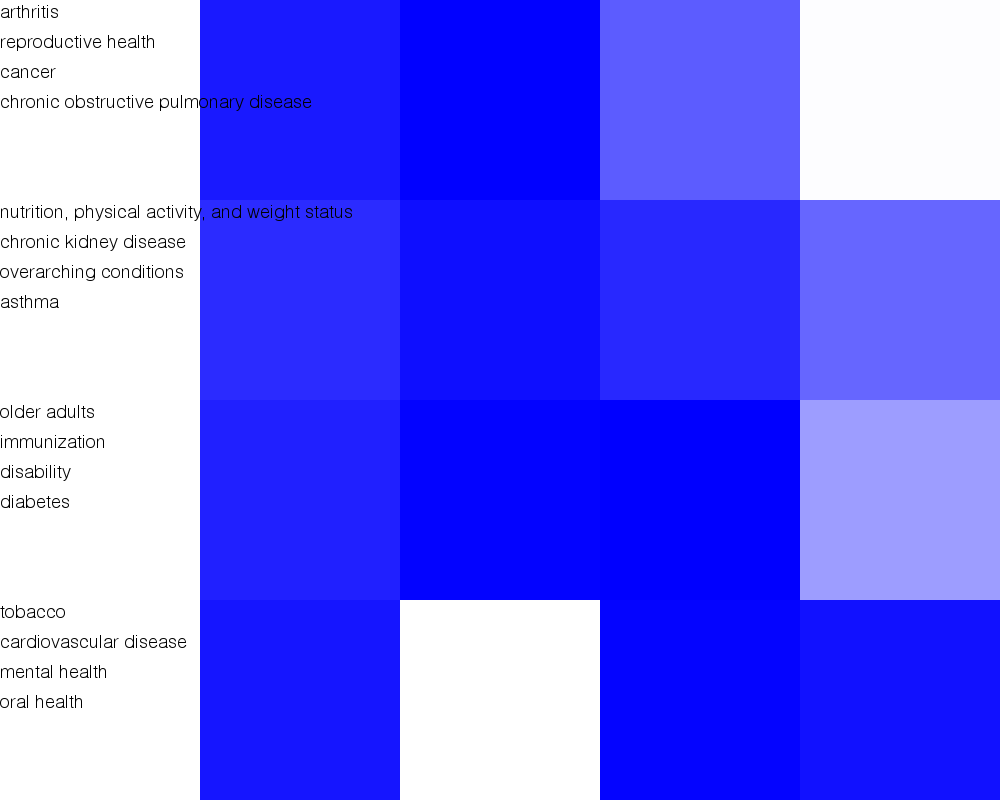
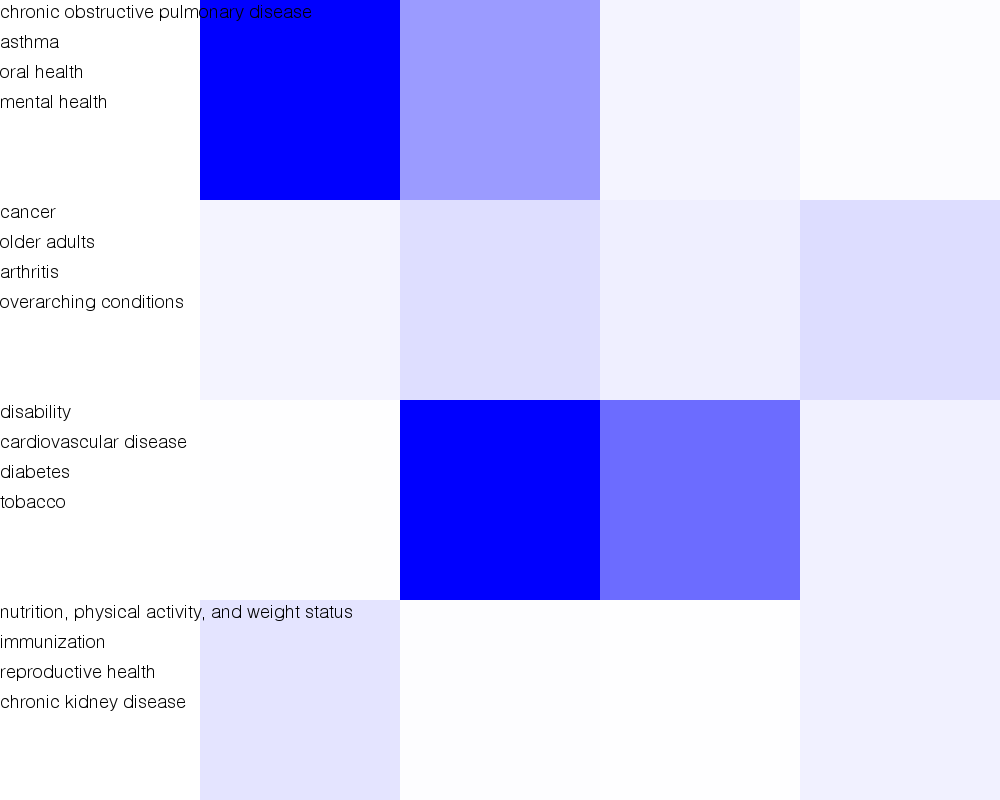
cleaned and commented

diff --git a/htmlthing.html b/htmlthing.html
@@ -5,11 +5,11 @@
 
 <h1>
 	<!-- previous color #E0DFDE -->
-	<center> <font face="Helvetica" color="black"> WordCloud </font> <center>
+		<center> <font face="Helvetica" color="black"> WordCloud </font> <center>
 </h1>
 
 <p>
-	<center> <img src="wordcloud.png" alt="Word Cloud" align="middle"> <center>
+		<center> <img src="wordcloud.png" alt="Word Cloud" align="middle"> <center>
 </p>
 
 <hr width="50%">

diff --git a/Definitions.py b/Definitions.py
@@ -1,21 +1,24 @@
 import csv
 import os
-#from scipy.misc import imread
 from wordcloud import WordCloud, STOPWORDS
 import random
 from PIL import Image, ImageFont, ImageDraw
 
 
-#sorts, adds, and creates dict of catagories without duplicates
+#sorts and adds to dictionary of catagories without duplicates
 def classify(origional, new):
+    #sorts origional list in alpabetical order
     origional = sorted([i.lower() for i in origional])
+    #if an item does not match the item before it, add it to the dictionary
     for i in range(2,len(origional)-1):
-        if origional[i] != origional[i-1] and origional[i] != "category" and origional[i] != "locationabbr":
+        if origional[i] != origional[i-1] and origional[i] != "category" and  origional[i] != "locationabbr":
             new[origional[i]] = 0
+    #the exclusion of "catagory" and "locationabbr" are unique to this csv file
 
 
 #counts amount of each catagory and adds number to corresponding list key
 def count(listi, dicti):
+    #makes certain that the passed list is sorted
     listi = sorted([i.lower() for i in listi])
     leng = len(dicti)
     for i in listi:
@@ -25,19 +28,21 @@ def count(listi, dicti):
 
 #creates color pallette of wordcloud
 def grey_color_func(word, font_size, position, orientation, random_state=None, **kwargs):
+    #change value of colors by changing areguents of randint
     return "hsl(0, 0%%, %d%%)" % random.randint(60, 70)
+    #only shades of grey
 
 
-#craetes wordcloud and saves it to an image
+#craetes wordcloud and saves it to png "wordcloud.png"
 def wordcloud(wordSource):
-    ##writes origional catagory list to text file
+    #writes origional catagory list to text file
     d = os.path.dirname(__file__)
     file = open("catagory.txt", 'w')
     for item in wordSource:
         file.write("%s\n" % item)
     thefile = open(os.path.join(d, "catagory.txt")).read()
 
-    #adds words to exclude
+    #adds words to exclude list
     STOPWORDS.add("chronic")
     STOPWORDS.add("disease")
     STOPWORDS.add("obstructive")
@@ -53,7 +58,6 @@ def wordcloud(wordSource):
     wordcloud.recolor(color_func=grey_color_func, random_state=3)
     wordcloud.to_file("wordcloud.png")
 
-    #cloud1_coloring = imread(os.path.join(d, "CloudColor.png")).read()
 
 #converts numbers to range of 0-255 for rgb
 def convert(oldMin, oldMax, oldValue):
@@ -63,33 +67,43 @@ def convert(oldMin, oldMax, oldValue):
 
 
 #uses values from convert() to generate the hue of a specified colorize
-#saves to image
-def colorize(catagories):
-    statestr = input("Enter state abbrevieation: ")
-    statestr = statestr.lower()
+#saves to image "colorplot.png"
+def colorize(catagories, states2):
+    #create two new lists
     local = {}
     newCats = []
     with open('U.S._Chronic_Disease_Indicators__CDI_.csv', newline='') as f:
+        #takes user input abbrevieation of state and checks to see if usable
+        while(True):
+            statestr = input("Enter state abbrevieation: ")
+            #garauntees that input will be lower case
+            statestr = statestr.lower()
+            #checks to see if input is in states2
+            if statestr not in states2:
+                print("Not acceptable input")
+            if statestr in states2:
+                break
+        #if input works, append all diseases of specified inputed state
         reader = csv.reader(f)
         for row in reader:
             if (row[1].lower() == statestr):
                 newCats.append(row[3].lower())
+    #sort and count it
     classify(newCats, local)
     count(newCats, local)
-    """
-    local is to contain the frequency for catagory(such as diseases)
-    that apply to the
-    domain (such as a specific state).
-    """
+
+    #local is to contain the frequency of, and diseases that apply to a specific state
+
     #smiply checking
+    #comment this out if you dont want anything
+    #to print to terminal
     for i in local:
         print (i + ": " + str(local[i]))
 
+    #new list is to contain the key values of local
     newList = [0]
     for i in local:
         newList.append(local[i])
-    print("newList")
-    print(newList)
     #find min and max of data
     oldMin = newList[0]
     oldMax = newList[0]
@@ -98,20 +112,24 @@ def colorize(catagories):
             oldMin = int(i)
         if (int(i) > oldMax):
             oldMax = int(i)
+    #do not want to use 0 in the data, as it effects the resulting colors
     if oldMin == 0:
         oldmin = 1
 
     #use min and max to convert local's key values to rgb range
     for i in local:
-        local[i] = int(convert(oldMin, oldMax, local[i]))
+        #if using black background oldMin comes before oldMax in arguments
+        local[i] = int(convert(oldMax, oldMin, local[i]))
 
+    #new local dict adjusted for RGB value scale
+    print("Adjusted for RGB")
     print (local)
 
+    #dynamically generate height of image using amount of stat in the string
     resBase = len(local)
-    print("Local length")
-    print(resBase)
-
     length = 0
+    #image is to contain 4 color square accross
+    #if amount of data is not devisible by 4, add extra row so that all may fit
     if resBase % 4 == 0:
         length = resBase / 4
         length *= 200
@@ -119,27 +137,32 @@ def colorize(catagories):
         length = int(resBase / 4)
         length += 1
         length *= 200
+    #each section of image is to be 200x200 with the total width of the image being 1000px
 
+    #create new image wtith previously detirmined dimensions
     height = int(length)
-
     rgb = (255,255,255)
     res = (1000,height)
     newimage = Image.new("RGB",res,rgb)
     newImageData = newimage.load()
 
+    #fill background with desired color
     for x in range(0, 1000):
         for y in range(0, height):
             newImageData[x,y] = (255, 255, 255)
 
+    #write color of image in 200x200px chunks
     piCount = 1
     buffery = 0
     textHeight = 0
+    #piCount is for x direction, buffery is for y direction, textHeight is y direction of text
     for i in local:
         bufferx = piCount * 200
         for x in range(bufferx,bufferx + 200):
             for y in range(buffery, buffery + 200):
+                #detirmine color of squares here, lolal[i] will be the varyant
                 newImageData[x,y] = (int(local[i]), int(local[i]), 255)
-
+        #draw color and text to image
         draw = ImageDraw.Draw(newimage)
         # font = ImageFont.truetype(<font-file>, <font-size>)
         # font = ImageFont.truetype("sans-serif.ttf", 16)
@@ -147,6 +170,11 @@ def colorize(catagories):
         font = ImageFont.truetype("HelvLight Regular.ttf", 18)
         draw.text((0, textHeight),i,(0,0,0), font)
 
+        #iterate through piCount for x direction of each square
+        #textHeight iterates by 30 to achieve even distance
+        #if piCount reaches 4, it means that the end of the image is met
+        #if so, add 200 to buffery, effectively changing the row
+        #textHeight goes up by 110 to evenl fit in each quare throughout the image
         if piCount < 4:
             piCount += 1
             textHeight += 30
@@ -154,6 +182,7 @@ def colorize(catagories):
             buffery += 200
             piCount = 1
             textHeight += 110
+    #save image
     newimage.save("colorplot.png")
 
 

diff --git a/First.py b/First.py
@@ -1,34 +1,33 @@
 import os
 import webbrowser
 import csv
-
 import Definitions as dfi
 
 def main():
-    dates=[]
-    datesDict={}
+    #lists and dictionaries used for this instance
     states=[]
-    statesDict={}
+    states2 = {}
     catagory=[]
     catagoryDict={}
 
+    #imports the csv file and appends the data to corrisponding lists
     with open('U.S._Chronic_Disease_Indicators__CDI_.csv', newline='') as f:
         reader = csv.reader(f)
         for row in reader:
-            dates.append(row[0])
             states.append(row[1])
             catagory.append(row[3])
 
+    #sorts lists into dictionaries without duplicates
     dfi.classify(catagory, catagoryDict)
-    dfi.classify(dates, datesDict)
-    dfi.classify(states, statesDict)
+    dfi.classify(states, states2)
+
+    #counts frequency of diseases and adds to corrisponding key in dictionary
     dfi.count(catagory, catagoryDict)
-    dfi.count(dates, datesDict)
-    dfi.count(states, statesDict)
 
-
+    #generates wordcloud using list of diseases
     dfi.wordcloud(catagory)
-    dfi.colorize(catagory)
+    #generates color plot using list of deiseases and dictionary of states
+    dfi.colorize(catagory, states2)
 
     #opens html file
     webbrowser.open("htmlthing.html")
